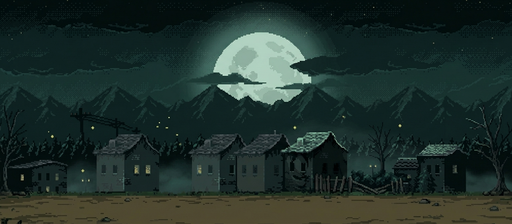
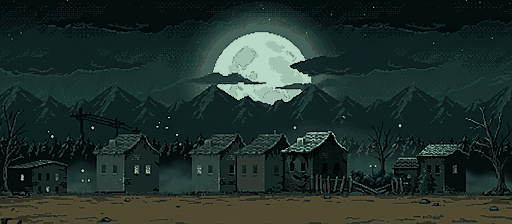
alteracao background fase3

diff --git a/js/fases/fase3.js b/js/fases/fase3.js
@@ -10,8 +10,8 @@ const FASE3 = {
   dialogoVilao: 'I can smell your fear, detective...',
   dialogoDerrota: 'The moon... will rise... again...',
 
-  cenario: 'assets/cenario-noite.png',
-  cenarioChave: 'cenario',
+  cenario: 'assets/cenario-lobisomem-512.png',
+  cenarioChave: 'cenario-lobisomem',
 
   // vida, tamanho e movimento do vilão
   vida: 900,
